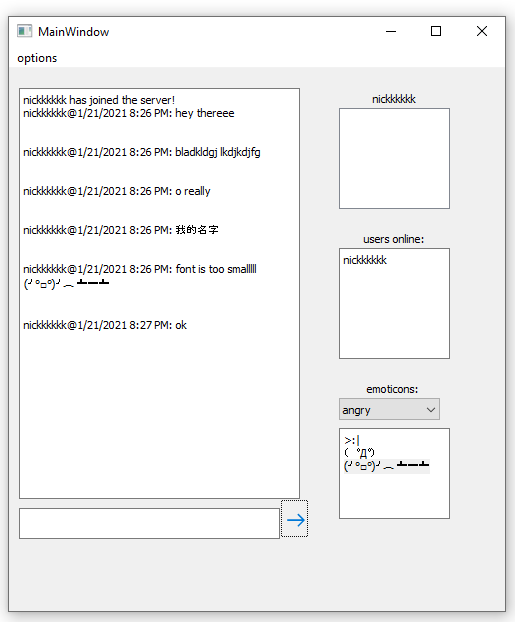
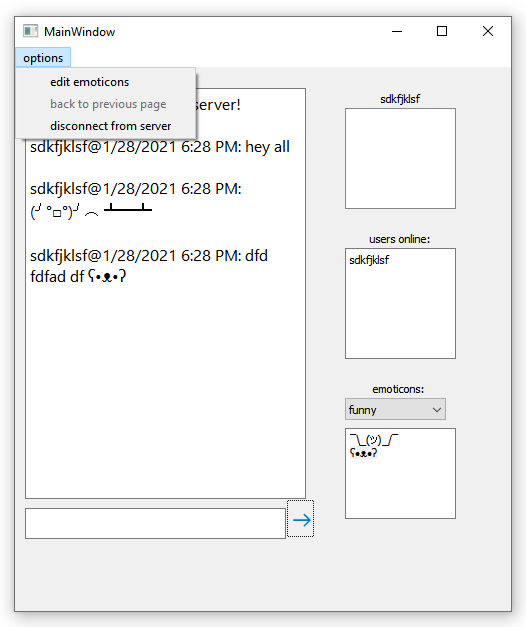
some revisions and readme update

diff --git a/app/mainwindow.cpp b/app/mainwindow.cpp
@@ -55,6 +55,7 @@ void MainWindow::goToLogin(){
 
     // should we clear user data?
     loginPage->setUp();
+    loginPage->resetProgressBar();
     stackedWidget->setCurrentWidget(loginPage);
 }
 
@@ -127,9 +128,10 @@ void MainWindow::setUpEmoticons(){
        "      \"（　ﾟДﾟ）\", "
        "      \"(╯°□°)╯︵ ┻━┻\" "
        "   ],"
-       "  \"funny\": ["
-       "      \"¯\\\\_(ツ)_/¯\", "
-       "      \"ʕ•ᴥ•ʔ\" "
+       "  \"funny\": [           "
+       "      \"¯\\\\_(ツ)_/¯\",  "
+       "      \"ʕ•ᴥ•ʔ\",         "
+       "      \"( ͡° ͜ʖ ͡°)\"      "
        "   ]"
        "}"
     );

diff --git a/app/chatarea.cpp b/app/chatarea.cpp
@@ -99,7 +99,7 @@ void ChatArea::receiveMessage(){
         datetime.setTime_t(tstamp);
         QString now = datetime.toString(Qt::SystemLocaleShortDate);
 
-        QString actualMsg = sender + "@" + now + ": " + msg + "\n\n";
+        QString actualMsg = sender + "@" + now + ": " + msg + "\n";
 
         ui->chatDisplay->append(actualMsg);
 
@@ -112,7 +112,7 @@ void ChatArea::receiveMessage(){
         QStringList msgTokens = msg.split(";");
 
         QString newClientMsg = msgTokens[0];
-        ui->chatDisplay->append(newClientMsg + "\n\n");
+        ui->chatDisplay->append(newClientMsg + "\n");
 
         ui->usersOnlineDisplay->clear();
 

diff --git a/app/login.cpp b/app/login.cpp
@@ -27,6 +27,10 @@ void Login::tearDown(){
     QObject::disconnect(socket, SIGNAL(disconnected()), this, SLOT(disconnectedFromServer()));;
 }
 
+void Login::resetProgressBar(){
+    ui->progressBar->setValue(0);
+}
+
 void Login::sendGreeting(){
     QString username = this->username;
 

diff --git a/app/login.h b/app/login.h
@@ -38,6 +38,7 @@ private slots:
 
 public:
     void setUp();
+    void resetProgressBar();
 private:
     Ui::Login* ui;
 

diff --git a/README.md b/README.md
@@ -3,7 +3,7 @@
 yet another chat application made with Qt (and Go for a demo server!)    
 based off of: https://github.com/syncopika/boringChat       
     
-currently works well with my demo server but need to test multiple clients and test/add some more features.    
+currently 1 client seems works well with my demo server but need to test multiple clients and test/add some more features.    
     
 current look:    
 ![the login page](screenshots/loginPage.png)    
@@ -15,11 +15,10 @@ current look:
 ![the go server](screenshots/go-server.png)    
     
 A key feature is being able to have complex ASCII/unicode emoticons on hand and ready for use! for when emojis just aren't good enough :)    
+I'm also using JSON for messages between the server and client.    
     
 ## TODO:    
 - make emoticon edit page/widget functional
-- implement disconnect
 - loading emoticons from a saved json?
 - testing with multiple users
 - implement avatar feature
-- better appearance/unicode support (i.e. chinese characters)
